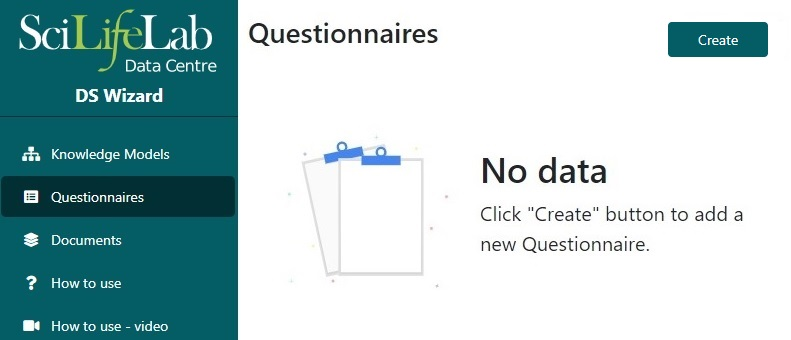
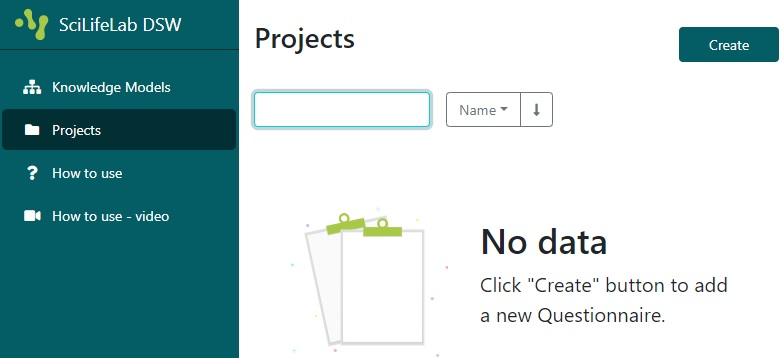
DSW Version 2.7 update
First batch of changes in order to adapt to the new (2.7) version of the wizard.

diff --git a/dsw_instructions/export_questionnaire.html b/dsw_instructions/export_questionnaire.html
@@ -28,26 +28,30 @@
         <h1>Instructions on how to create a DMP from a Questionnaire</h1>
 		<p>
             When the Questionnaire is completed, you can create a Data Management Plan file 
-            using the <b>Create Document</b>
-			function.<br><br>
+            (a.k.a. a Document) <br>
+            First, click on <b>Settings</b> in the top navigation bar.
+			      <br><br>
             <img src="./export_questionnaire.jpg" alt="export_questionnaire_image">
 		</p>
         <p> <br><br>
-          First write a name, including some type of version-identifying word (eg a number, 
-          the project phase, funder, etc) for this version of the DMP. <br><br>
-          Then select a template (has directions on what to include in the DMP), 
+          The <b>Name</b> field is prefilled with the name of the questionnaire, but we recommend 
+          to add an identifier to give this version of the DMP a unique name (eg a number, 
+          the project phase, funder, date, etc).<br>
+          Next, select a template (has directions on what to include in the DMP), 
           there are currently three types of templates:
 		  <ul>
 			  <li>SciLifeLab Full - Contains, in addition to the questions and answers, also the guidance.</li>
 			  <li>ScilifeLab Minimal - Will reduce output somewhat, removing the guidance, 
 			  the focus is the questions and answers. </li> 
-			  <li>Common Template - Can be useful when other Knowledge Models (from DS Wizard team)
-			  is the base for a questionnaire, since it also contains summary report. 
+			  <li>Questionnaire Report - Can be useful when other Knowledge Models (from DS Wizard team). It 
+			  produces a complete report, containing also summaries of e.g. number of questions answered. 
 			  </li> 
 		  </ul>
-		  <br>Finally, click on the file format you want (typically PDF or MS Word), and then click <b>Create</b>.
+      <br>When a template is selected, a set of file formats is shown. Click on the file format you want (typically 
+      PDF or MS Word), and then click <b>Save</b>.
+      <img src="./fileFormat_questionnaire.jpg" alt="file_format_questionnaire_image">
 		</p> 
-    <img src="./template_questionnaire.jpg" alt="template_questionnaire_image">		
+    
     <p><br><br>All versions created can be found via <b>Documents</b> in the left-hand side menu.
     This is also an alternative way to create a DMP from a Questionnaire.</p>	
     <img src="./export_document_view.jpg" alt="export_document_view_image">

diff --git a/dsw_instructions/get_started_questionnaire.html b/dsw_instructions/get_started_questionnaire.html
@@ -28,14 +28,14 @@
         <h1>Instructions on how to start writing a DMP</h1>
 		<br><br><img src="./click_create_questionnaire.jpg" alt="click_create_questionnaire_image"><br><br>
 			
-        <h2>1. Click on <b>Questionnaires</b> in left-side menu</h2><br>
+        <h2>1. Click on <b>Projects</b> in left-side menu</h2><br>
 						
 		<h2>2. Click on <b>Create</b> in the top right corner</h2>
 		<br>
 		<h2>3. Name the questionnaire and select Knowledge Model </h2>
 		<p><ul>
               <li>Write a Name based on your name and project, so it is easy to find later </li>
-			  <li>Select "Common SciLifeLab DMP 1.2.2" (or the highest version number) as Knowledge Model</li>
+			  <li>Select "Common SciLifeLab DMP 1.2.3" (or the highest version number) as Knowledge Model</li>
 			  <li>Click on <b>Save</b> and begin answering the questions</li>
 			</ul>
 			<b>Note:</b> Select the SNIC tag if you only want to see questions of interest in a SNIC application.<br><br>
